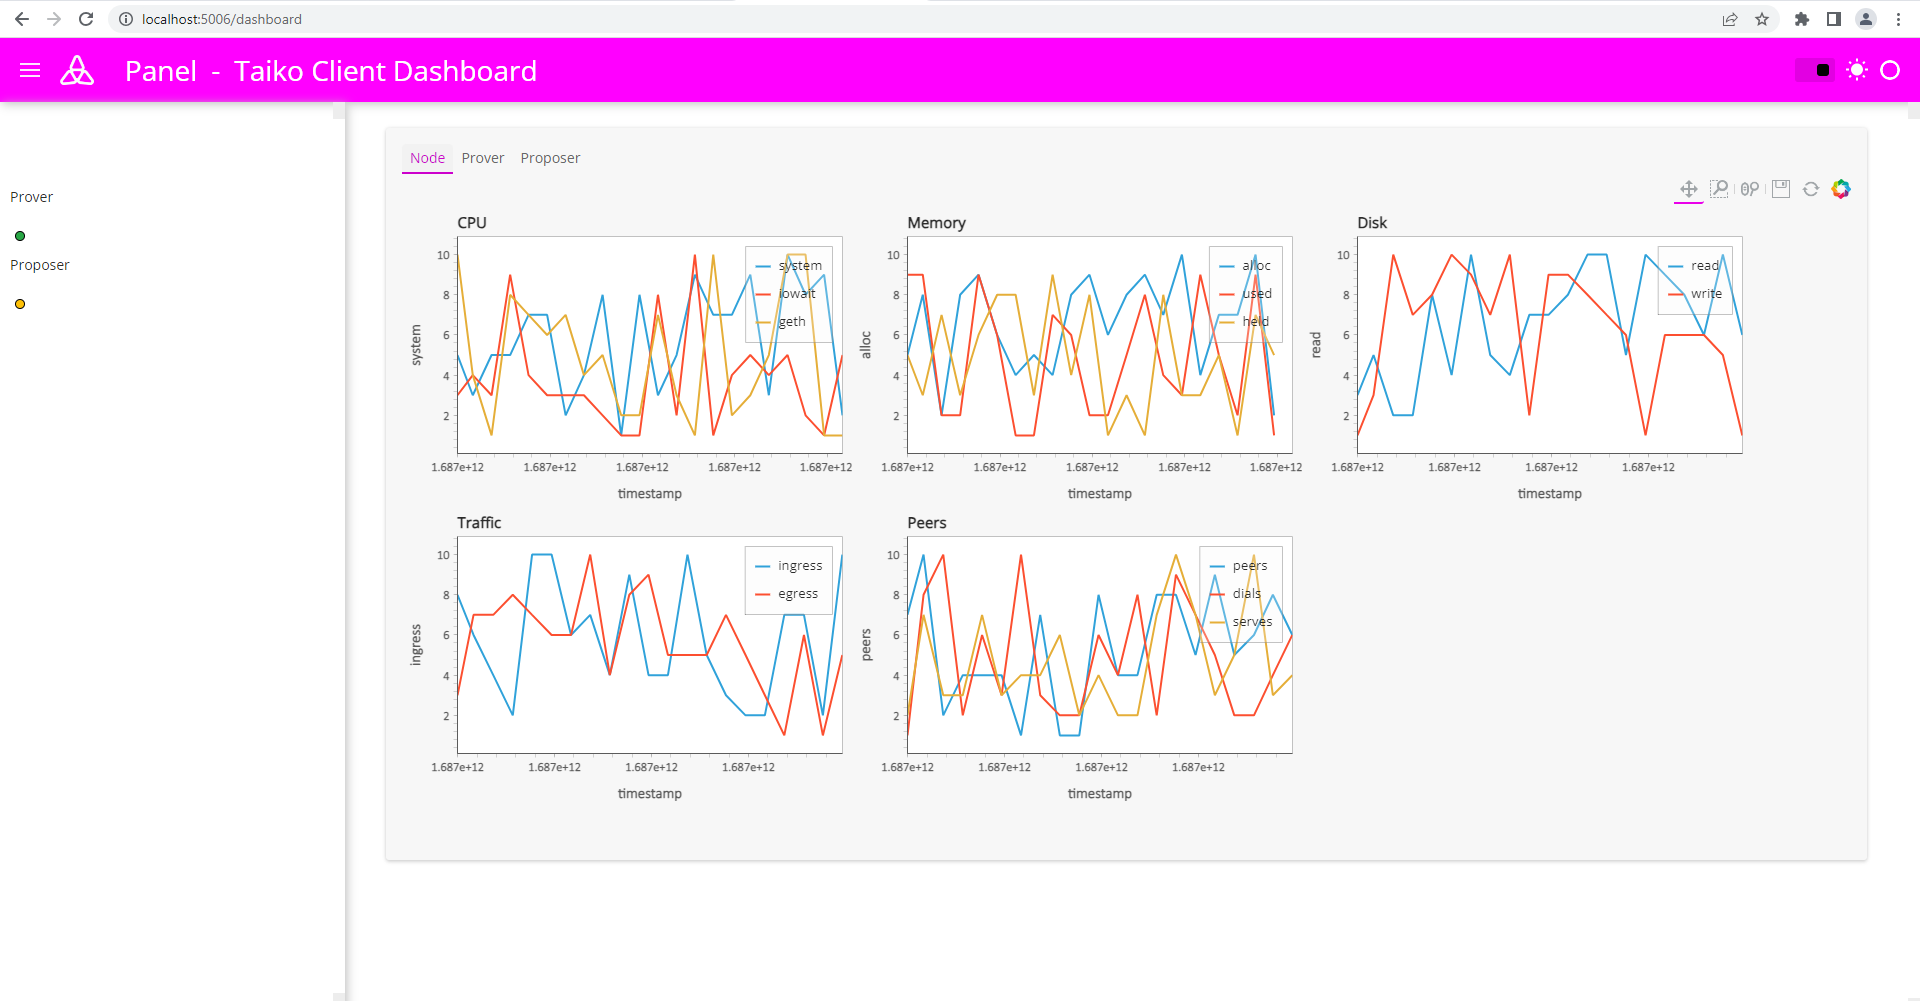
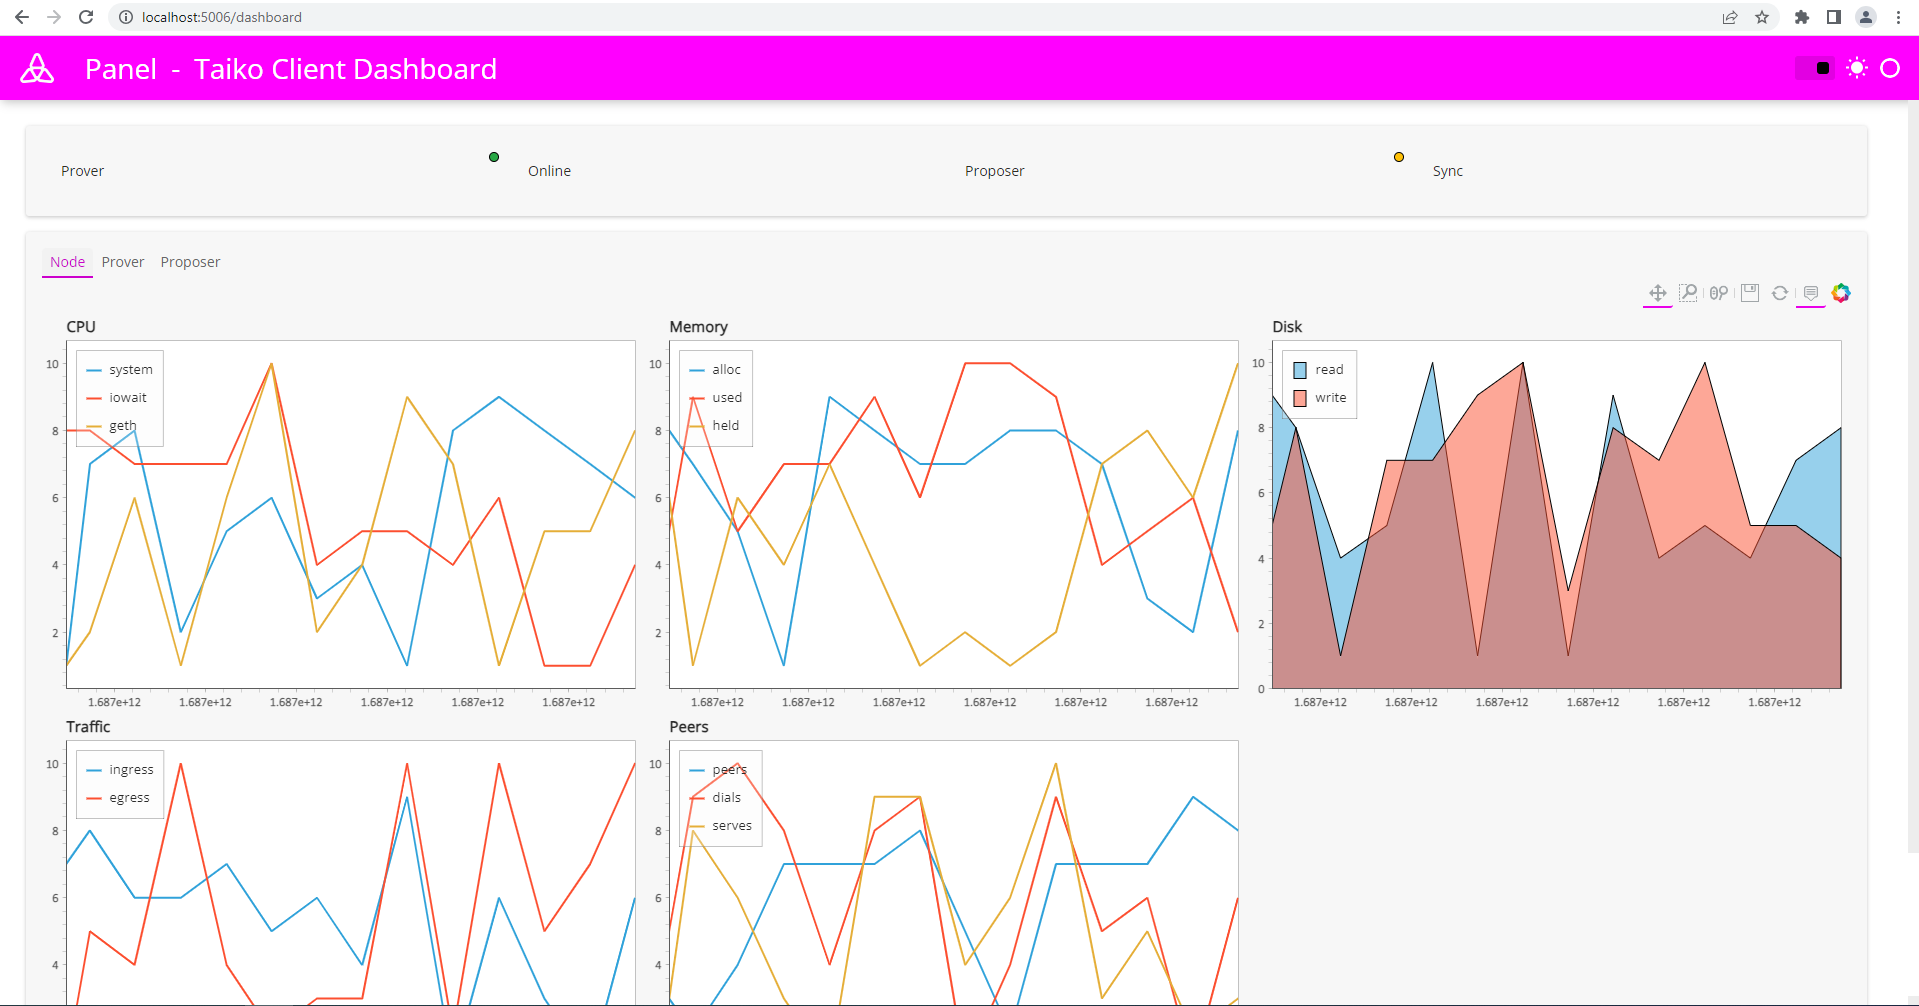
Add files via upload

diff --git a/app/utils/proposer.py b/app/utils/proposer.py
@@ -21,14 +21,14 @@ class Proposer(param.Parameterized):
         'eth_left_l1': np.array([])})
     #df.set_index('timestamp', inplace=True)
 
-    buffer = Buffer(data=df, length=1000)
+    buffer = Buffer(data=df, length=120)
     
     @param.depends('mock_param')    
     def get_info(self,data):
         return hv.Layout( 
                 hv.Area(label='Earnings', data=data[["timestamp","earnings"]]).opts(height=400, responsive=True, title="Earnings", labelled=[]) + 
                 hv.Area(label='Blocks Proposed', data=data[["timestamp","blocks_proposed"]]).opts(height=400, responsive=True, title="Blocks Proposed", labelled=[]) +
-                hv.Area(label='ETH left on L1', data=data[["timestamp","eth_left_l1"]]).opts(height=400, title="ETH left on L1", labelled=[])
+                hv.Area(label='ETH left on L1', data=data[["timestamp","eth_left_l1"]]).opts(height=400, responsive=True, title="ETH left on L1", labelled=[])
         ).cols(2)
 
     @gen.coroutine

diff --git a/app/utils/prover.py b/app/utils/prover.py
@@ -21,7 +21,7 @@ class Prover(param.Parameterized):
         'eth_left_l1': np.array([])})
     #df.set_index('timestamp', inplace=True)
 
-    buffer = Buffer(data=df, length=1000)
+    buffer = Buffer(data=df, length=120)
     
     @param.depends('mock_param')    
     def get_info(self,data):

diff --git a/app/utils/node.py b/app/utils/node.py
@@ -31,7 +31,7 @@ class Node(param.Parameterized):
             'serves': np.array([])})
     #df.set_index('timestamp', inplace=True)
 
-    buffer = Buffer(data=df, length=1000)
+    buffer = Buffer(data=df, length=120)
     
     @param.depends('mock_param')
     def get_curves(self,data):
